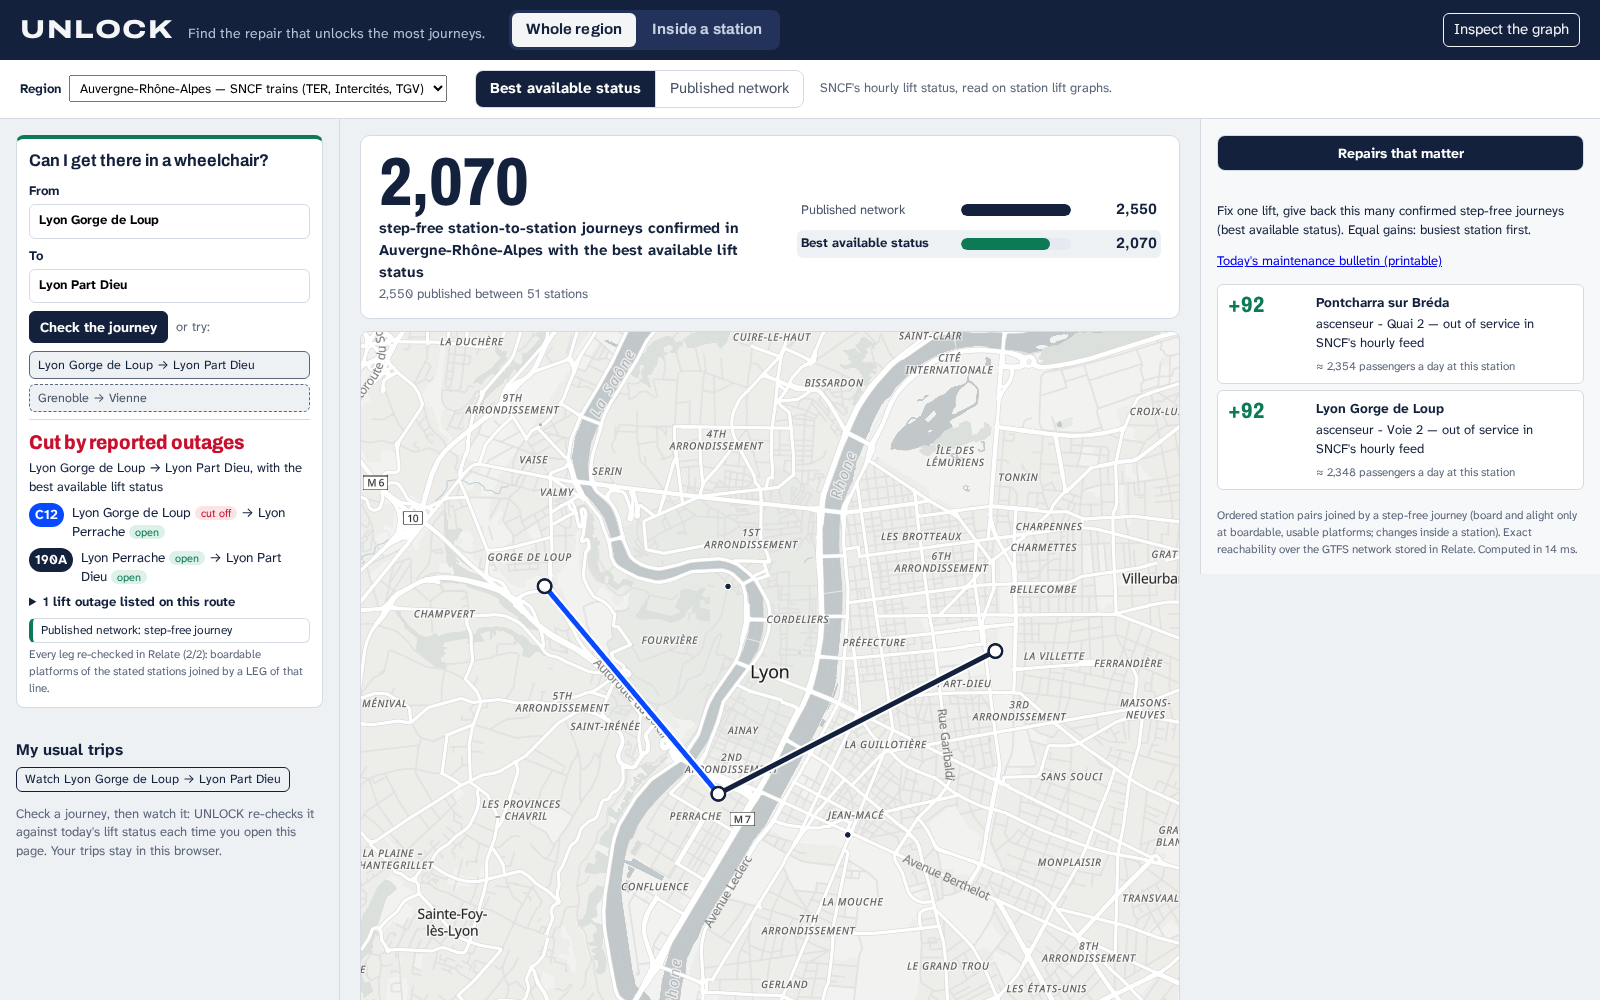
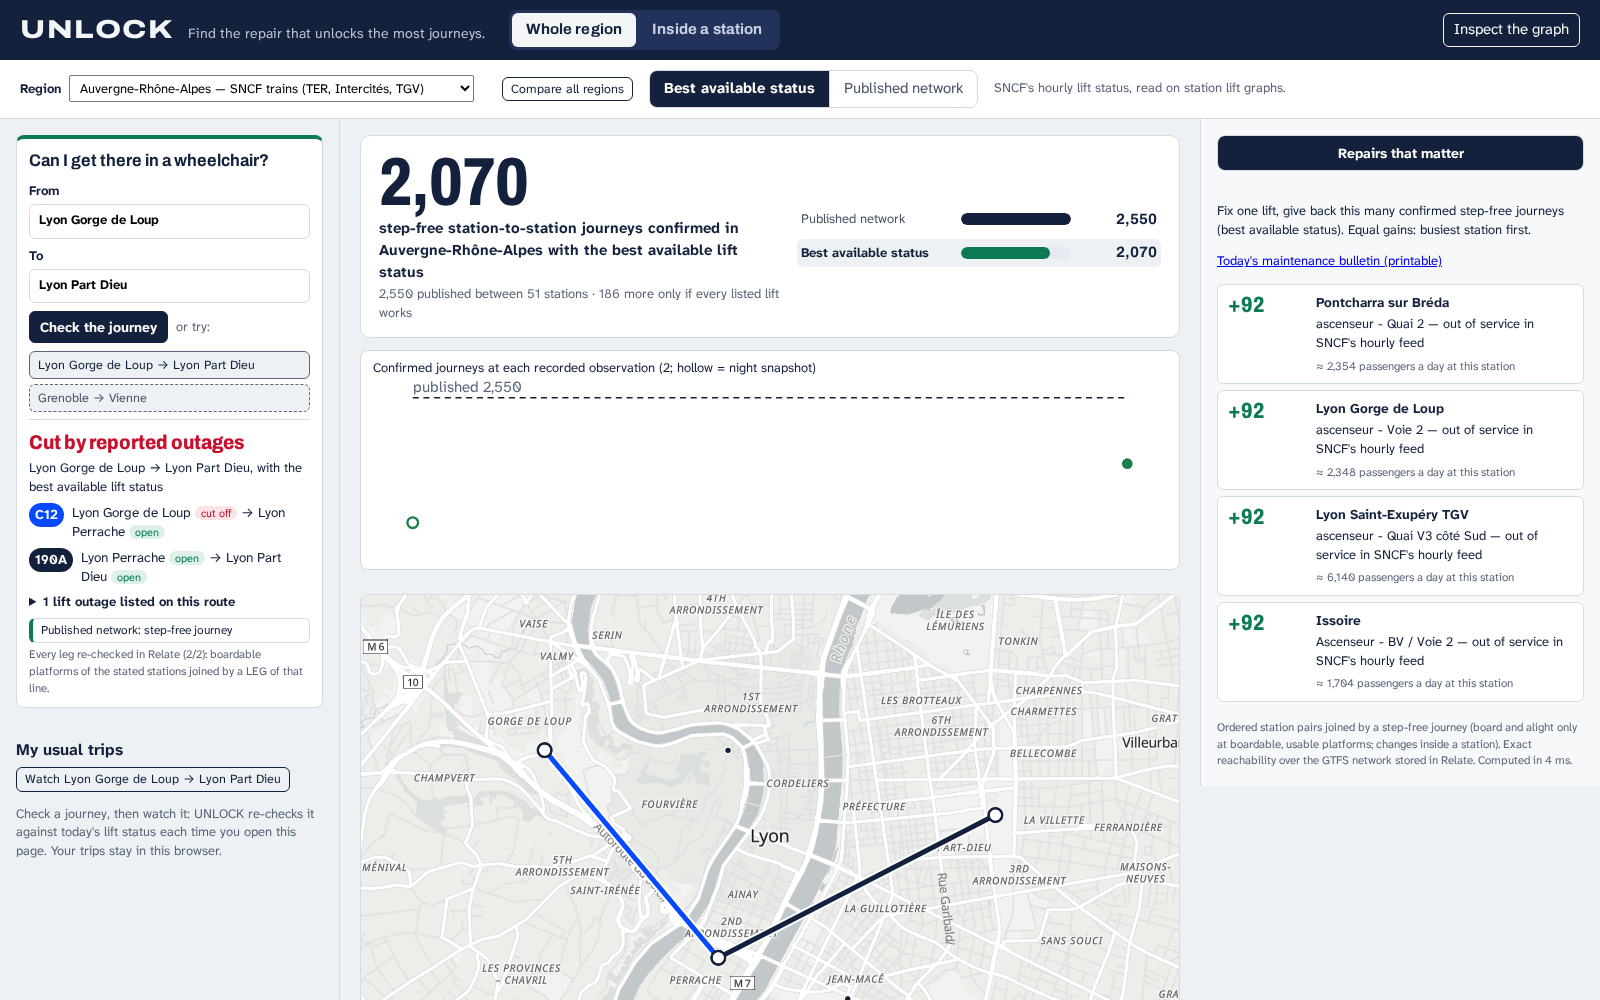
docs: daytime figures (17 Nov 2026, 10:30-10:44 Paris) in README, Devpost text, demo script, screenshots
Claude-Session: https://claude.ai/code/session_01TUWd9U5rukzSE4YHnd9Rdv

diff --git a/README.md b/README.md
@@ -25,10 +25,10 @@ Every number on screen is computed on the graph and can be traced back to a sour
 
 > **What the data showed on 16–17 Nov 2026.** The PRIM traffic-information API lists **356 lifts out of service**
 > (1,047 messages) — and **none of those messages has changed since 9 October 2026**, while every other traffic
-> message is updated the same day: four fetches over five hours returned byte-identical lift content. SNCF's own
-> hourly lift feed reports **225 of the 264 SNCF lifts it lists as working**, and IDFM's own lift-status dataset
-> contradicts **18 of the 39 RATP messages** UNLOCK can match to a lift. Those stale messages alone hide
-> **93,776** step-free journeys from anyone who builds on the feed.
+> message is updated the same day: five fetches over 15 hours returned byte-identical lift content. On 17 Nov at
+> 10:30, SNCF's own hourly lift feed reports **216 of the 264 SNCF lifts it lists as working**, and IDFM's own
+> lift-status dataset contradicts **37 of the 39 RATP messages** UNLOCK can match to a lift. Those stale messages alone
+> hide **126,628** step-free journeys from anyone who builds on the feed.
 > Method and figures: [docs/research/NETWORK_DISCOVERY.md](docs/research/NETWORK_DISCOVERY.md).
 
 **▶ Try it now, nothing to install: https://toskaman.github.io/unlock-accessibility-graph/** — every region of
@@ -72,28 +72,28 @@ UNLOCK connects these sources so you can ask: *"Which repair restores the most v
 
 ## Whole region in one minute
 
-Figures below: snapshot of **17 Nov 2026, 01:26 Paris** (the app recomputes them from whatever snapshot is
-loaded; `python -m unlock refresh` fetches a new one). A night snapshot matters: lifts switched off at the end of
-service appear in IDFM's dataset as failures — UNLOCK counts the 166 switched off since 23:00 as *unknown*, never as
-outages, and says so on screen.
+Figures below: daytime snapshot of **17 Nov 2026, 10:30–10:44 Paris** (the app recomputes them from whatever
+snapshot is loaded; `python -m unlock refresh` fetches a new one). Night snapshots are flagged: lifts switched off at
+the end of service appear in IDFM's dataset as failures — UNLOCK counts those switched off since 23:00 as *unknown*,
+never as outages (166 of them at 01:26 the same night).
 
 1. The app opens on **Whole region**. The headline is the number of ordered station pairs joined by a
-   confirmed step-free journey: **256,592** in the published network, **207,509** with the best available lift
+   confirmed step-free journey: **256,592** in the published network, **231,883** with the best available lift
    status (SNCF's hourly feed for SNCF lifts, IDFM's lift-status dataset for RATP lifts, both read on station lift
    graphs), **88,255** if you believe the PRIM feed.
-2. The amber card explains the gap: PRIM's lift messages have not moved for 38 days; SNCF contradicts 225 of its
-   264 SNCF entries and IDFM's own dataset 18 of the 39 RATP entries it can be matched to.
+2. The amber card explains the gap: PRIM's lift messages have not moved for 38 days; SNCF contradicts 216 of its
+   264 SNCF entries and IDFM's own dataset 37 of the 39 RATP entries it can be matched to.
 3. *Can I get there in a wheelchair?* — **Rosa Parks → Juvisy**: step-free with the best status (RER E then
    RER C); with the PRIM feed only *possible if listed lifts work* (11 outages listed on the route). Each leg
    says "re-checked in Relate". *Watch* it: it joins *My usual trips* and is re-checked at every visit.
-4. *Repairs that matter*: equal gains (a repair usually gives one station back to the whole network: +912
-   journeys) are ordered by how busy the station is — **Paris Gare du Nord** (Transmanche lift AS 15, ≈ 186,920
-   validations a day) first. *Today's maintenance bulletin* turns the list into a printable page.
-5. Click **Rosa Parks** on the map: the whole region recolours — 455 stations reachable step-free from there with the
-   best available status (47 only if listed lifts work, 4 cut), together ≈ 2.8 million validations a day. With the
-   PRIM feed: 294. *Re-derived in Relate with Cypher: 455 = 455.*
+4. *Repairs that matter*: **Paris Est** first (+1,930 journeys: lift CDGX / Asc 20); then equal gains (a repair
+   usually gives one station back to the whole network: +964) are ordered by how busy the station is — **Paris Gare
+   du Nord** (Transmanche lift AS 15, ≈ 186,920 validations a day) before Auber, Argenteuil, Choisy-le-Roi. *Today's maintenance bulletin* turns the list into a printable page.
+5. Click **Rosa Parks** on the map: the whole region recolours — 481 stations reachable step-free from there with the
+   best available status (22 only if listed lifts work, 3 cut), together ≈ 3.1 million validations a day. With the
+   PRIM feed: 294. *Re-derived in Relate with Cypher: 481 = 481.*
 
-   ![Where can I go from here? La Croix de Berny: 30 stations confirmed, 473 only if listed lifts work](docs/media/region-reach.png)
+   ![Where can I go from here? Gare de l'Est on 17 Nov, 10:30: 0 stations confirmed, 503 only if listed lifts work — one lift out (+1,930 if repaired), and the history chart of confirmed journeys](docs/media/region-reach.png)
 
 6. The station card lists every lift IDFM's dataset has at the station with its status, then each PRIM message,
    its age, and — for SNCF lifts — the lift UNLOCK matched it to and what SNCF's hourly feed says.
@@ -112,22 +112,23 @@ modelled, a lift not reported working puts the station in doubt, never assumed h
 
 | Region | Accessible stations | Published | Confirmed | Share | SNCF lifts out / unknown | Modelled street route |
 |---|---|---|---|---|---|---|
-| Île-de-France | 519 | 256,592 | 201,181 | 78.4 % | 23 / 7 (+ RATP) | 61 of 190 |
-| Auvergne-Rhône-Alpes | 51 | 2,550 | 1,640 | 64.3 % | 24 / 9 | 32 of 46 |
-| Bourgogne-Franche-Comté | 19 | 289 | 90 | 31.1 % | 14 / 2 | 10 of 15 |
-| Bretagne | 21 | 420 | 420 | 100 % | 4 / 1 | 5 of 11 |
-| Centre-Val de Loire | 10 | 20 | 0 | 0 % | 11 / 3 | 1 of 8 |
-| Grand Est | 47 | 2,162 | 1,332 | 61.6 % | 11 / 7 | 9 of 42 |
-| Hauts-de-France | 33 | 656 | 350 | 53.3 % | 12 / 2 | 3 of 31 |
-| Normandie | 23 | 462 | 240 | 51.9 % | 4 / 2 | 5 of 18 |
-| Nouvelle-Aquitaine | 23 | 506 | 210 | 41.5 % | 11 / 11 | 2 of 20 |
-| Occitanie | 24 | 464 | 62 | 13.4 % | 12 / 16 | 8 of 14 |
-| Pays de la Loire | 12 | 132 | 72 | 54.5 % | 3 / 3 | 4 of 9 |
-| Provence-Alpes-Côte d'Azur | 32 | 992 | 552 | 55.6 % | 18 / 3 | 10 of 26 |
+| Île-de-France | 519 | 256,592 | 231,883 | 90.4 % | 27 / 7 (+ 24 RATP) | 61 of 190 |
+| Auvergne-Rhône-Alpes | 51 | 2,550 | 2,070 | 81.2 % | 6 / 9 | 32 of 46 |
+| Bourgogne-Franche-Comté | 19 | 289 | 289 | 100 % | 0 / 2 | 10 of 15 |
+| Bretagne | 21 | 420 | 380 | 90.5 % | 1 / 1 | 5 of 11 |
+| Centre-Val de Loire | 10 | 20 | 6 | 30.0 % | 6 / 3 | 1 of 8 |
+| Grand Est | 47 | 2,162 | 1,122 | 51.9 % | 13 / 8 | 9 of 42 |
+| Hauts-de-France | 33 | 656 | 428 | 65.2 % | 8 / 2 | 3 of 31 |
+| Normandie | 23 | 462 | 210 | 45.5 % | 5 / 2 | 5 of 18 |
+| Nouvelle-Aquitaine | 23 | 506 | 272 | 53.8 % | 9 / 11 | 2 of 20 |
+| Occitanie | 24 | 464 | 162 | 34.9 % | 6 / 16 | 8 of 14 |
+| Pays de la Loire | 12 | 132 | 90 | 68.2 % | 1 / 3 | 4 of 9 |
+| Provence-Alpes-Côte d'Azur | 32 | 992 | 600 | 60.5 % | 15 / 3 | 10 of 26 |
 
-*Snapshot: SNCF lift status of 17 Nov 2026, 00:30 Paris — a night file: SNCF lifts switched off for the night may
-appear out of service (the SNCF file carries no per-lift time, so UNLOCK cannot tell). The app and the comparison
-recompute from whatever status is loaded; daytime observations are recorded twice a day ([history](docs/HISTORY.md)).*
+*Snapshot: SNCF lift status of 17 Nov 2026, 10:30 Paris (daytime). The app and the comparison recompute from
+whatever status is loaded; observations are recorded twice a day ([history](docs/HISTORY.md)). At night the same
+table looked very different (Bourgogne-Franche-Comté 31 %, Occitanie 13 %): SNCF's file carries no per-lift time, so
+lifts switched off for the night look like outages — refresh in the daytime before quoting figures.*
 
 ![Journey check: Rosa Parks → Juvisy compared across the three views](docs/media/region-journey.png)
 

diff --git a/docs/DEVPOST_SUBMISSION.md b/docs/DEVPOST_SUBMISSION.md
@@ -22,8 +22,8 @@ A platform can be "accessible" and still unreachable when one lift breaks. Wheth
 wheelchair-boardable platform), the status of all 986 lifts (SNCF hourly feed + IDFM's lift-status dataset, read on
 per-station lift graphs) and the lift outages published on PRIM into the same Relate graph, then computes exactly how
 many station-to-station journeys are step-free under three views: the published network (256,592), the best
-available lift status (207,509 on 17 Nov, 01:26) and the PRIM outage feed (88,255). Click any station and the whole
-map shows where a wheelchair user can go from there (Rosa Parks: 455 stations confirmed, 294 if you believe the feed),
+available lift status (231,883 on 17 Nov, 10:44) and the PRIM outage feed (88,255). Click any station and the whole
+map shows where a wheelchair user can go from there (Rosa Parks: 481 stations confirmed, 294 if you believe the feed),
 each reach re-derived in Cypher. Anyone can ask *can I get from A to B in a wheelchair?* and get the route, the
 outages on it and a Relate re-check of every leg. Repairs are ranked by journeys given back region-wide, ties broken by
 how busy the station is (top: Paris Gare du Nord's Transmanche lift).
@@ -48,9 +48,9 @@ Relate's WebAssembly build in the visitor's browser, which re-runs the server's 
 leg and every reach (the browser engine was checked identical to the server's on 1,038 reaches and 600 journeys).
 
 **A real finding.** The PRIM feed's 1,047 lift messages have not changed since 9 Oct 2026, while its other messages
-update daily (four fetches over five hours: byte-identical lift content). Reading each SNCF message into the exact lift
-and comparing with SNCF's hourly feed, UNLOCK finds 225 of 264 contradicted; IDFM's own lift-status dataset contradicts
-18 of the 39 RATP messages it can be matched to — stale messages that hide 93,776 step-free journeys from apps built on
+update daily (five fetches over 15 hours: byte-identical lift content). Reading each SNCF message into the exact lift
+and comparing with SNCF's hourly feed, UNLOCK finds 216 of 264 contradicted; IDFM's own lift-status dataset contradicts
+37 of the 39 RATP messages it can be matched to — stale messages that hide 126,628 step-free journeys from apps built on
 the feed.
 
 **Inside a station.** UNLOCK builds a graph of the 401 SNCF stations in Île-de-France: platforms, underpasses, halls and the 588 lifts that join them, each linked to its latest published status and source file. Select a lift and simulate an outage: UNLOCK shows which step-free platform↔platform and platform↔exit connections break, ranks every possible lift repair across the region by how many confirmed connections it restores (including the lifts really out of service today), and shows the exact graph path and evidence behind each number. Example: at Juvisy-sur-Orge, losing lift ASC3 cuts 21 confirmed connections — a bigger loss than any lift currently out of service in the region.

diff --git a/DEMO_SCRIPT.md b/DEMO_SCRIPT.md
@@ -3,15 +3,15 @@
 **Before recording, in the daytime:** stop the server, run `python -m unlock refresh` (keys from the environment),
 then `python -m unlock serve`. Night snapshots show lifts switched off at the end of service; UNLOCK flags them, but
 daytime figures make a better video. **Read every number off the screen**; the bracketed figures are those of the
-committed snapshot. The zero-install demo (GitHub Pages) can be filmed instead of the local app for every step
+daytime snapshot of 17 Nov 2026, 10:44. The zero-install demo (GitHub Pages) can be filmed instead of the local app for every step
 except the last one.
 
 | Time | Screen | Action | Say (suggestion) |
 |---|---|---|---|
-| 0:00–0:12 | Whole region, *Best available status* | — | "Île-de-France publishes [256,592] step-free station-to-station journeys. With today's lift status, read lift by lift in a Relate graph, [201,181] are confirmed." |
-| 0:12–0:24 | Point at the amber card | — | "The official outage feed hasn't changed since 9 October. SNCF's and IDFM's own data contradict it; those stale messages hide [93,776] journeys." |
+| 0:00–0:12 | Whole region, *Best available status* | — | "Île-de-France publishes [256,592] step-free station-to-station journeys. With today's lift status, read lift by lift in a Relate graph, [231,883] are confirmed." |
+| 0:12–0:24 | Point at the amber card | — | "The official outage feed hasn't changed since 9 October. SNCF's and IDFM's own data contradict it; those stale messages hide [126,628] journeys." |
 | 0:24–0:40 | Chip *Rosa Parks → Juvisy*, then *Watch* | *My usual trips* panel | "Can I get there in a wheelchair? Yes — and I can watch my daily trip: every time I open UNLOCK, or in my calendar, it's re-checked against today's lifts, with a step-free detour when my usual route is cut." |
-| 0:40–0:52 | Click **Rosa Parks** on the map | The map recolours | "Where can I go from here? [455] stations confirmed — re-derived by Relate with Cypher." |
+| 0:40–0:52 | Click **Rosa Parks** on the map | The map recolours | "Where can I go from here? [481] stations confirmed — re-derived by Relate with Cypher." |
 | 0:52–1:07 | *Repairs that matter* → *Today's maintenance bulletin* | Bulletin tab | "For lift teams: the repair that gives back the most journeys, busiest station first — as a printable bulletin every morning." |
 | 1:07–1:25 | *Compare all regions* | Table, then click Occitanie or Grand Est | "Not an Île-de-France trick: the same code on national open data for every region of mainland France. In some regions, barely a third of the published step-free journeys are confirmed today." |
 | 1:25–1:40 | *(optional)* a lift-status history chart, once a few days are recorded | — | "And because UNLOCK records the status twice a day, it shows which lifts are chronically out — not just today." |
